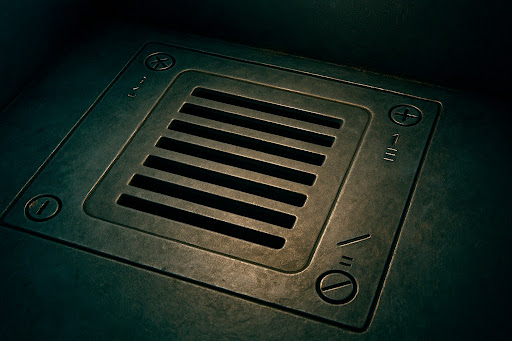
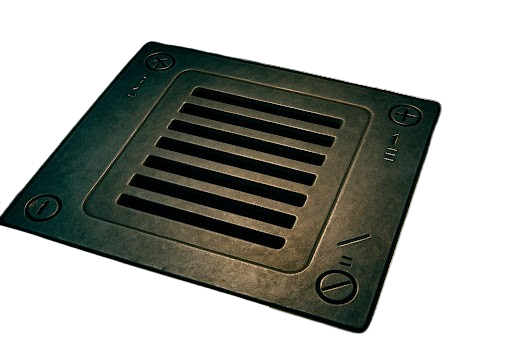
Funcionalidad casi terminada faltan imagenes

diff --git a/wwwroot/css/site.css b/wwwroot/css/site.css
@@ -2,7 +2,6 @@ html {
   font-size: 14px;
   min-height: 100%;
 }
-
 @media (min-width: 768px) {
   html {
     font-size: 16px;
@@ -86,8 +85,86 @@ p
 }
 .sala4 {
   background-color: black;
-  background-image: url('/imagenes/sala4.png');
+}
+.sala4 img
+{
+  margin-left: 35%;
+}
+.sala5
+{
+  background-image: url('/imagenes/sala5.webp');
+}
+.sala5 iframe
+{
+  margin-top: 6%;
+} 
+ul li
+{
+  color: white;
+}
+.ganaste
+{
+  background-image: url('/imagenes/ganaste.webp');
   background-size: contain;
+  background-color: black;
   background-position: center;
   background-repeat: no-repeat;
+}
+.perdiste
+{
+  background-image: url('/imagenes/perdiste.webp');
+}
+button {
+  font-size: 17px;
+  padding: 1em 2.7em;
+  font-weight: 500;
+  background: #1f2937;
+  color: white;
+  border: none;
+  position: relative;
+  overflow: hidden;
+  border-radius: 0.6em;
+  cursor: pointer;
+}
+
+.gradient {
+  position: absolute;
+  width: 100%;
+  height: 100%;
+  left: 0;
+  top: 0;
+  border-radius: 0.6em;
+  margin-top: -0.25em;
+  background-image: linear-gradient(
+    rgba(0, 0, 0, 0),
+    rgba(0, 0, 0, 0),
+    rgba(0, 0, 0, 0.3)
+  );
+}
+
+.label {
+  position: relative;
+  top: -1px;
+}
+
+.transition {
+  transition-timing-function: cubic-bezier(0, 0, 0.2, 1);
+  transition-duration: 500ms;
+  background-color: rgba(16, 185, 129, 0.6);
+  border-radius: 9999px;
+  width: 0;
+  height: 0;
+  position: absolute;
+  left: 50%;
+  top: 50%;
+  transform: translate(-50%, -50%);
+}
+
+button:hover .transition {
+  width: 14em;
+  height: 14em;
+}
+
+button:active {
+  transform: scale(0.97);
 }

diff --git a/Controllers/HomeController.cs b/Controllers/HomeController.cs
@@ -47,12 +47,15 @@ public class HomeController : Controller
         }
         else
         {
-            ViewBag.Mensaje = "Muy bien, pasaste a la siguiente sala";
+            ViewBag.Mensaje = "";
             AQueView ="Sala"+ juego.numeroSala;
         }
 
             HttpContext.Session.SetString("Juego", Objeto.ObjectToString(juego));
             return View(AQueView);
     }
-
+    public IActionResult Perdiste()
+    {
+        return View("VistaPerdedor");
+    }
 }

diff --git a/Models/Juego.cs b/Models/Juego.cs
@@ -13,7 +13,7 @@ public class Juego
     {
         respuestas = new Dictionary<int, string>();
         respuestas.Add(1, "2499");
-        respuestas.Add(2, "arriba, derecha, izquierda, abajo");
+        respuestas.Add(2, "it");
         respuestas.Add(3, "9135");
         respuestas.Add(4, "1234");
         respuestas.Add(5, "JUAN B. AMBROSETTI");
